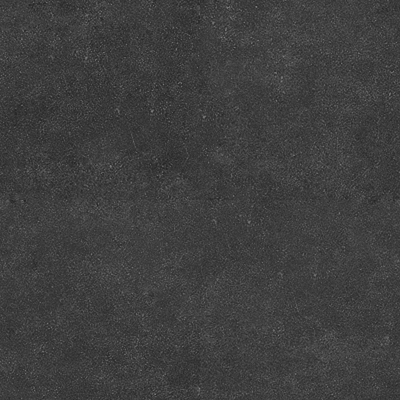
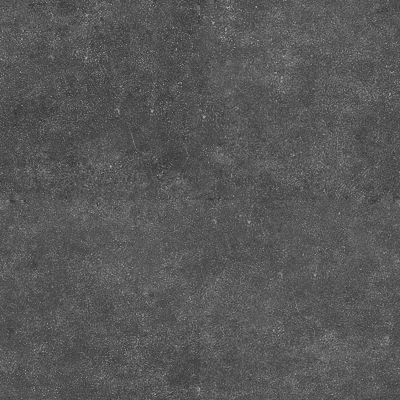
add some styling

diff --git a/css/main.css b/css/main.css
@@ -1,32 +1,30 @@
 /*! normalize.css v1.1.0 | MIT License | git.io/normalize */
 article,aside,details,figcaption,figure,footer,header,hgroup,main,nav,section,summary{display:block}audio,canvas,video{display:inline-block;*display:inline;*zoom:1}audio:not([controls]){display:none;height:0}[hidden]{display:none}html{font-size:100%;-webkit-text-size-adjust:100%;-ms-text-size-adjust:100%}html,button,input,select,textarea{font-family:sans-serif}body{margin:0}a:focus{outline:thin dotted}a:active,a:hover{outline:0}h1{font-size:2em;margin:.67em 0}h2{font-size:1.5em;margin:.83em 0}h3{font-size:1.17em;margin:1em 0}h4{font-size:1em;margin:1.33em 0}h5{font-size:.83em;margin:1.67em 0}h6{font-size:.67em;margin:2.33em 0}abbr[title]{border-bottom:1px dotted}b,strong{font-weight:bold}blockquote{margin:1em 40px}dfn{font-style:italic}hr{-moz-box-sizing:content-box;box-sizing:content-box;height:0}mark{background:#ff0;color:#000}p,pre{margin:1em 0}code,kbd,pre,samp{font-family:monospace,serif;_font-family:'courier new',monospace;font-size:1em}pre{white-space:pre;white-space:pre-wrap;word-wrap:break-word}q{quotes:none}q:before,q:after{content:'';content:none}small{font-size:80%}sub,sup{font-size:75%;line-height:0;position:relative;vertical-align:baseline}sup{top:-0.5em}sub{bottom:-0.25em}dl,menu,ol,ul{margin:1em 0}dd{margin:0 0 0 40px}menu,ol,ul{padding:0 0 0 40px}nav ul,nav ol{list-style:none;list-style-image:none}img{border:0;-ms-interpolation-mode:bicubic}svg:not(:root){overflow:hidden}figure{margin:0}form{margin:0}fieldset{border:1px solid #c0c0c0;margin:0 2px;padding:.35em .625em .75em}legend{border:0;padding:0;white-space:normal;*margin-left:-7px}button,input,select,textarea{font-size:100%;margin:0;vertical-align:baseline;*vertical-align:middle}button,input{line-height:normal}button,select{text-transform:none}button,html input[type="button"],input[type="reset"],input[type="submit"]{-webkit-appearance:button;cursor:pointer;*overflow:visible}button[disabled],html input[disabled]{cursor:default}input[type="checkbox"],input[type="radio"]{box-sizing:border-box;padding:0;*height:13px;*width:13px}input[type="search"]{-webkit-appearance:textfield;-moz-box-sizing:content-box;-webkit-box-sizing:content-box;box-sizing:content-box}input[type="search"]::-webkit-search-cancel-button,input[type="search"]::-webkit-search-decoration{-webkit-appearance:none}button::-moz-focus-inner,input::-moz-focus-inner{border:0;padding:0}textarea{overflow:auto;vertical-align:top}table{border-collapse:collapse;border-spacing:0}
 /* H5BP */
-html,button,input,select,textarea{color:#222;}body{font-size:1em;line-height:1.4;}hr{display:block;height:1px;border:0;border-top:1px solid #ccc;margin:1em 0;padding:0;}img{vertical-align:middle;}fieldset{border:0;margin:0;padding:0;}textarea{resize:vertical;}.chromeframe{background:#ccc;color:#000;margin:.2em 0;padding:.2em 0;}::-moz-selection,::selection{background:#b3d4fc;text-shadow:none;}
+html,button,input,select,textarea{color:#222;}body{font-size:1em;line-height:1.4;}hr{display:block;height:1px;border:0;border-top:1px solid #ccc;margin:1em 0;padding:0;}img{vertical-align:middle;}fieldset{border:0;margin:0;padding:0;}textarea{resize:vertical;}.chromeframe{background:#ccc;color:#000;margin:.2em 0;padding:.2em 0;}::-moz-selection,::selection{background:#666;text-shadow:none;}
 
 body { 
 	text-align: center; 
 	background: #222; 
-	background-image:url('../img/bgr-blackleather.png');
+	background-image:url('../img/bgr-greyleather.png');
 	color: #ddd;
 	color: rgba(255,255,255,.6); 
 	font-family: 'Special Elite', cursive; 
 	font-size: 18px;
-	text-shadow: 0 -2px 0 #000;
+	text-shadow: 0 -2px 0 #000, 0 2px 0 #000, 1px 0 0 #000, -1px 0 0 #000;
 }
 .wrapper { width: 860px; margin: 0 auto; }
 h1,h2,h3,h4,h5,h6,p { margin: 0 0 10px; }
-h1,h2,h3,h4,h5,h6 { line-height: 1; font-weight: normal; font-family: 'Rye', cursive; }
+h1,h2,h3,h4,h5,h6 { line-height: 1; font-weight: normal; font-family: 'Rye', cursive; color: #eee; }
 header { 
 	margin: 0 auto;
 	padding: 20px 0 0;
 }
 header h1 { 
 	margin-bottom: 10px; 
-	color: rgba(255,255,255,.8);
-	text-shadow: 0 -4px 0 #000;
+	text-shadow: 0 -4px 0 #000, 0 4px 0 #000, -4px 0 0 #000, 4px 0 0 #000;
 }
-h2 { font-size: 1.2em; text-shadow: none; color: rgba(255,255,255,.6); }
-p { text-shadow: 0 0 -1px #000; }
+h2 { font-size: 1.2em; text-shadow: 0 -3px 0 #000, 0 3px 0 #000, 2px 0 0 #000, -2px 0 0 #000; }
 strong { font-weight: normal; color: rgba(255,255,255,.99); }
 .headline-text { display: block; }
 .headline-forthe {  }
@@ -40,14 +38,17 @@ a.big-button, a.big-button:visited {
 	font-style: normal; 
 	padding: 0 .5em; 
 	background: rgba(0,0,0,.2);
-	background-image:url('../img/bgr-rust.png');
+	background-image:url('../img/bgr-rock.png');
 	color: rgba(0,0,0,.7); 
 	text-decoration: none; 
 	text-transform: uppercase; 
 	font-size: 2.4em; 
-	border-radius: 2px;
+	border-radius: 16px;
 	text-shadow: none;
-	border: solid 8px #000;
+	border: solid 8px rgba(0,0,0,.8);
+	-moz-box-shadow: inset 0 5px 1px 0 rgba(255,255,255,.3), inset 0 -6px 1px 0 rgba(0,0,0,.5);
+	-webkit-box-shadow: inset 0 5px 1px 0 rgba(255,255,255,.3), inset 0 -6px 1px 0 rgba(0,0,0,.5);
+	box-shadow: inset 0 5px 1px 0 rgba(255,255,255,.3), inset 0 -6px 1px 0 rgba(0,0,0,.5);
 }
 a.big-button:hover { opacity: 1; }
 .output { 
